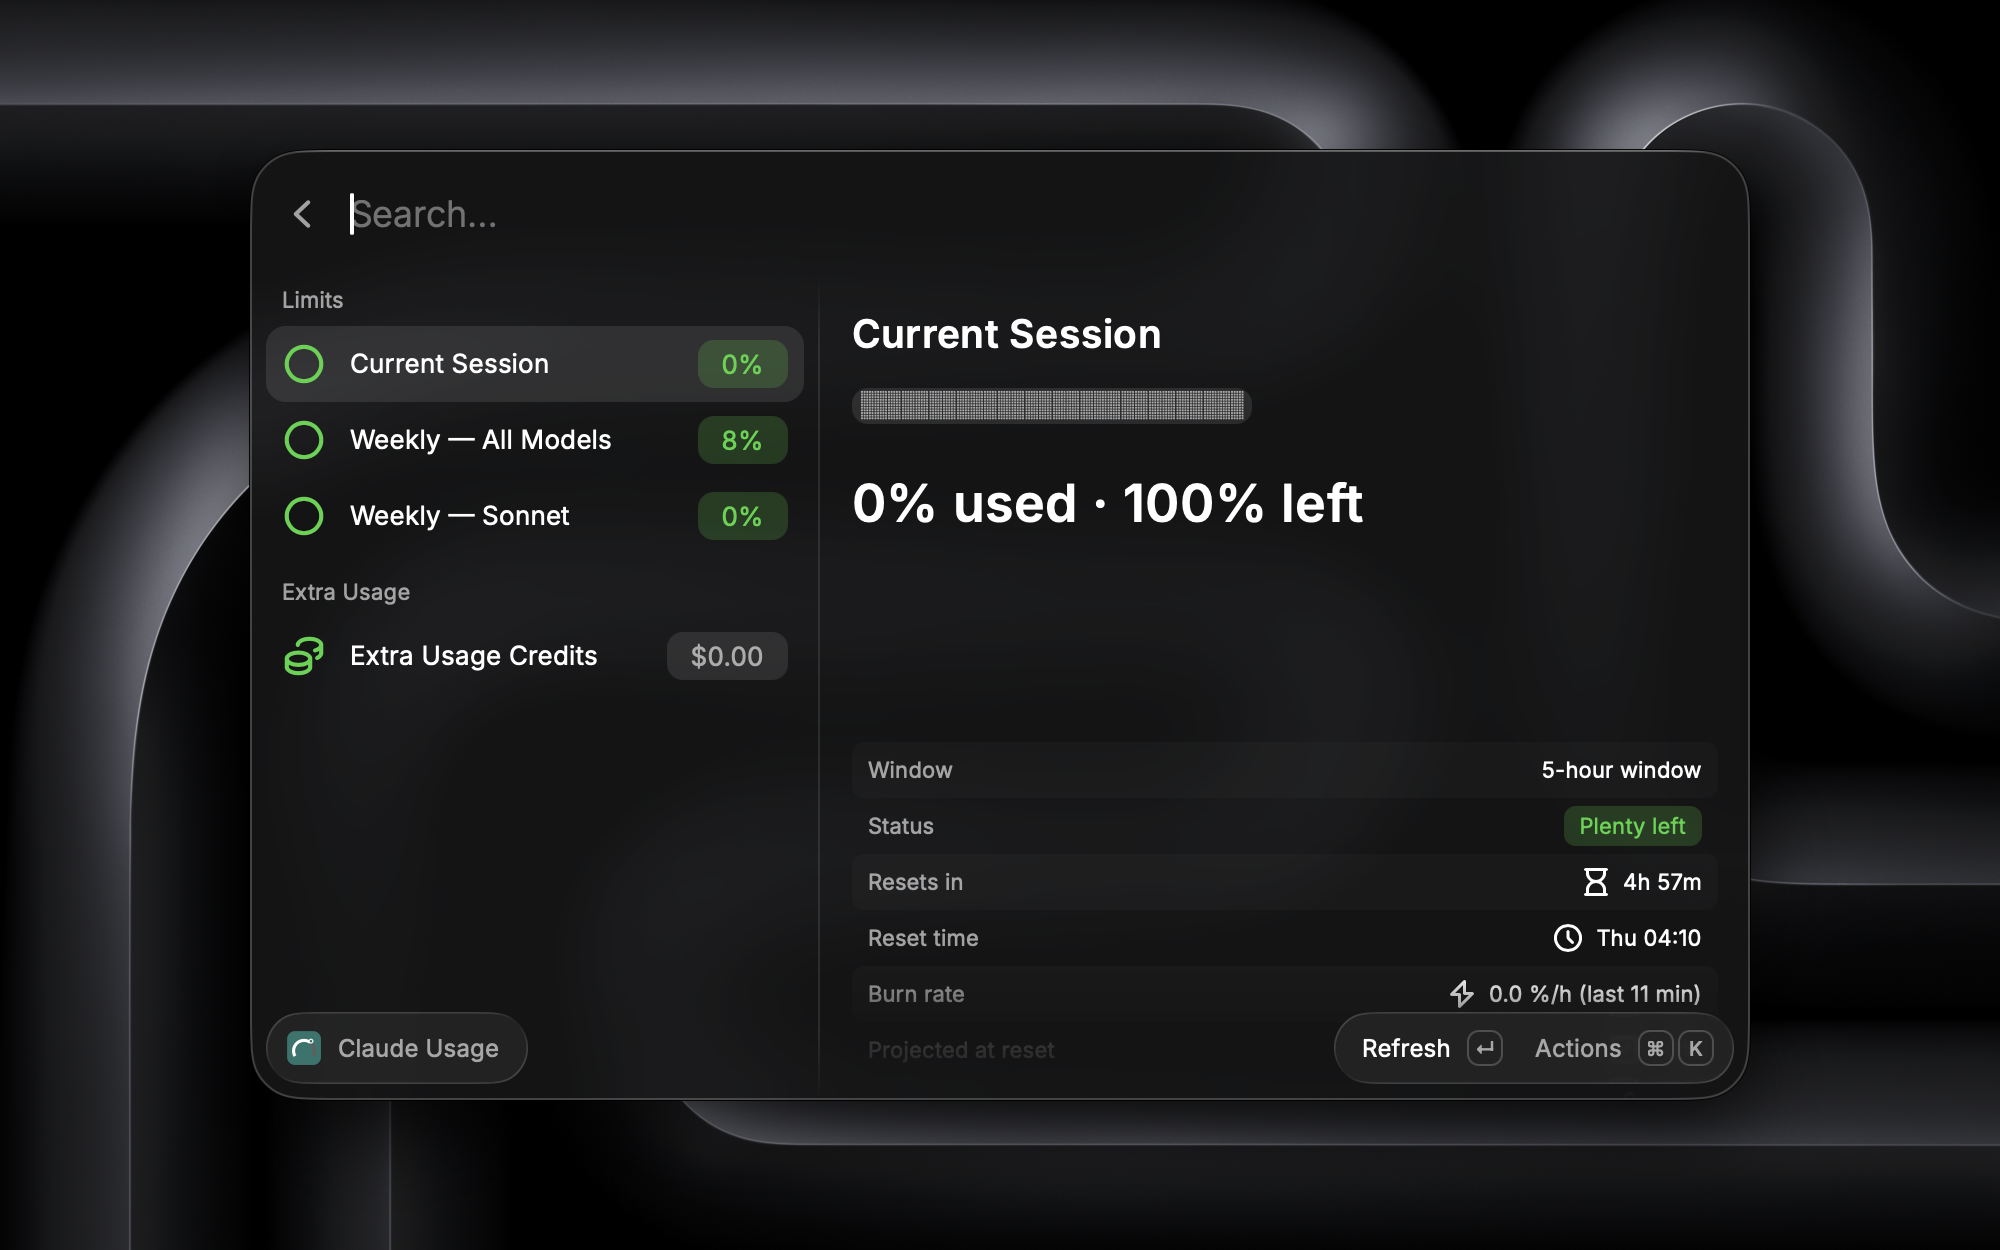
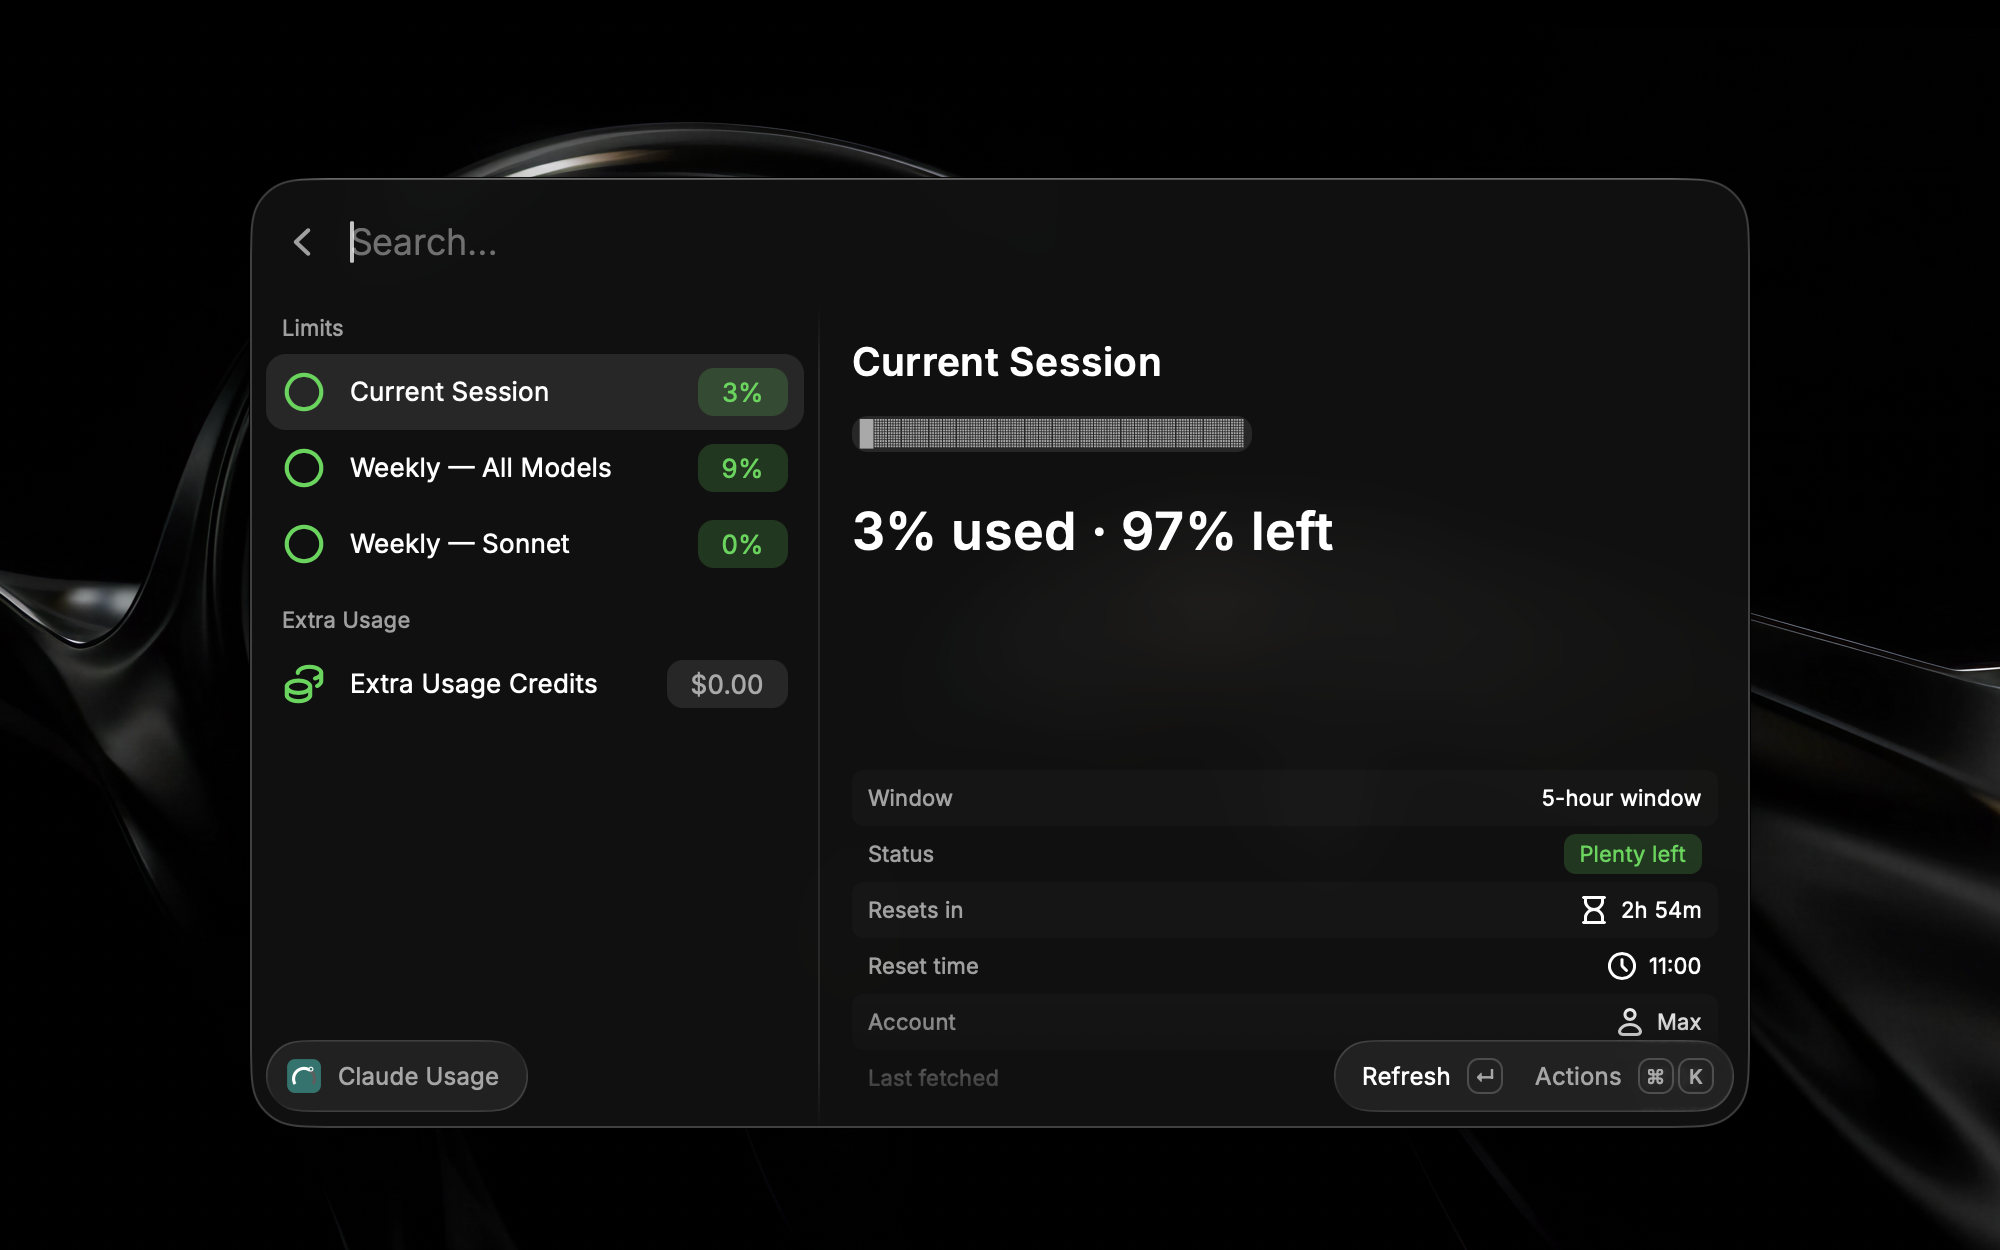
Prepare extension for Raycast Store submission
- Rename title to "Claude Subscription Usage" (clearer; avoids the crowded "Claude Usage" namespace)
- Simplify command titles to "Show Dashboard" / "Show in Menu Bar"; drop redundant "Claude" subtitles
- Bump @user/api and @user/utils to latest
- Replace store screenshot with a compliant 2000x1250 frame (centered, ~12.5% padding); drop the non-compliant menu-bar screenshot

Changed region(s): [[0.0, 0.0, 1.0, 1.0], [0.992, 0.9672, 1.0, 0.9984], [0.899, 0.5616, 0.93, 0.5928]]

diff --git a/README.md b/README.md
@@ -12,7 +12,7 @@ Monitor your **Claude subscription** limits (Pro / Max / Team) right in the macO
 - Icon color by severity: green < 50 % < yellow < 75 % < orange < 90 % < red
 - In the dropdown: progress bars, reset countdown + time, Opus/Sonnet sub-limits (if your plan has them), burn rate and projection
 
-**Dashboard** (`Show Claude Usage`)
+**Dashboard** (`Show Dashboard`)
 
 - Every window with a detail panel: status, reset, burn rate (%/h), "limit reached in ~…" / "projected at reset"
 - Weekly pace vs. budget (~14.3 %/day)
@@ -35,7 +35,7 @@ npm run dev        # requires Raycast installed
 
 There's **no key to enter**. On the first refresh the extension reads the OAuth token from the Keychain (`/usr/bin/security`) and calls the usage endpoint.
 
-Then run the **"Claude Usage in Menu Bar"** command once → the item appears in your menu bar. Background refresh (every 2 min) has to be enabled once in the command settings after install (standard Raycast behavior).
+Then run the **"Show in Menu Bar"** command once → the item appears in your menu bar. Background refresh (every 2 min) has to be enabled once in the command settings after install (standard Raycast behavior).
 
 ## Preferences
 